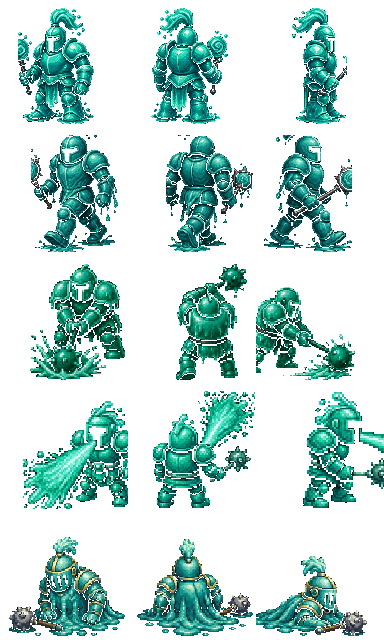
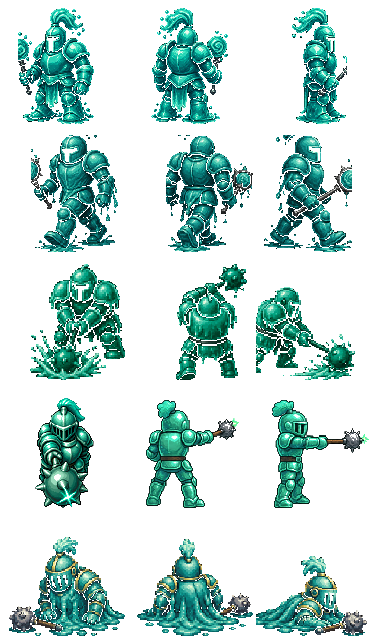
US-017: Baja Carbonated Jet stream strip + blast-row arm-point.
sprites/baja_jet.png is 512x128 (128 cells): 0 head +X, 1 body wrap, 2 fizz body, 3 pierce impact. Boss row 3 S/N/E is the mace-point telegraph; visor cone gone.

Changed region(s): [[0.6875, 0.5938, 1.0, 0.8125], [0.375, 0.5938, 0.6562, 0.8125], [0.0625, 0.625, 0.3438, 0.8125]]

diff --git a/user_stories/US-027.md b/user_stories/US-027.md
@@ -1,0 +1,70 @@
+# US-027: Baja Blast Carbonated Jet
+
+**Status**: Draft  
+**Source**: James — 3 Baja Blast specials (implement first)  
+**Priority**: P2  
+**Roles**: Dungeon Master
+
+## User Story
+
+As the Dungeon Master fighting the Baja Blast boss, I see a readable arm-point telegraph and then a piercing high-velocity stream of neon Baja syrup so I can dodge a skill shot that is not Freeze Wave.
+
+## Context
+
+Builds on US-017 boss combat (`monsters/baja_boss.gd`, blast state). US-017 **blast** is a short Baja spit/hurtbox. **Carbonated Jet** is a telegraphed **linear piercing skill shot**. Freeze Wave is US-028. Sugar Rush is US-029. Primary target is the **DM in the dungeon**. Paper Pusher occupancy is unchanged (US-003 T011).
+
+## Independent Test
+
+Aggro the Baja Blast boss. It points an arm and shows a linear telegraph, then fires a neon syrup stream that punches through and can hit the DM. A second window sees the same telegraph and stream. Freeze Wave (if present) is a different move.
+
+## Acceptance Criteria
+
+1. **Given** the boss chooses Carbonated Jet, **When** the windup starts, **Then** a linear telegraph is readable before the stream fires.
+2. **Given** the stream fires, **When** it travels, **Then** it is a piercing high-velocity neon Baja syrup shot along that line, host-authoritative.
+3. **Given** the stream overlaps the DM, **When** the host resolves, **Then** the DM is hit (dungeon combat).
+4. **Given** Freeze Wave or US-017 blast, **When** Jet plays, **Then** it is a distinct move (not those VFX, not that hit shape).
+
+## Functional Requirements
+
+- **FR-001**: Carbonated Jet MUST be a telegraphed linear skill shot. The boss points an arm (or equivalent facing pose) and the lane MUST be readable before fire.
+- **FR-002**: The shot MUST be a piercing high-velocity stream of neon Baja syrup along the telegraphed line. It MUST NOT stop on the first target.
+- **FR-003**: Hit detection and damage MUST be host-authoritative. The stream MUST be able to hit the DM in the dungeon.
+- **FR-004**: Jet MUST be distinct from US-028 Freeze Wave and from US-017 blast.
+- **FR-005**: Telegraph, stream spawn, and hits MUST replicate to peers. Clients may predict VFX.
+
+## Multiplayer Requirements
+
+- **MR-001**: Telegraph start, stream, and hits MUST be server-authored.
+- **MR-002**: Peers MUST see the same lane and the same hit outcome.
+
+## Edge Cases
+
+- DM behind another damageable: stream continues (piercing).
+- Boss dies during telegraph: cancel; do not fire.
+- Paper Pusher in the dungeon lane: may be hit; occupancy T011 is unchanged (no wall, no push-out).
+
+## Key Entities
+
+- **Carbonated Jet**: Telegraphed piercing syrup stream.
+- **Telegraph**: Readable linear lane before fire.
+
+## Assumptions
+
+- Implement this special first among US-027–029.
+- Suggested tell: 0.4–0.8s. Suggested stream is thin and fast, not a wave.
+
+## Out of Scope
+
+- Freeze Wave (US-028), Sugar Rush (US-029).
+- US-019 cube, US-020 cozy, US-018 fireball.
+- Bemidji Blizzard pocket/slow (US-017 T005).
+- PP occupancy (US-003 T011).
+
+## Required New Art Assets
+
+Optional if code-drawn telegraph + a syrup particle already reads.
+
+| Asset | Dimensions | Match | Notes |
+|---|---|---|---|
+| Jet telegraph | line / 32-wide | fireball-scale VFX | Readable lane on the dungeon floor. |
+| Neon syrup stream | thin strip or projectile | Baja teal, not ice | Piercing stream, not Freeze Wave ice. |

diff --git a/user_stories/tasks/US-027/README.md b/user_stories/tasks/US-027/README.md
@@ -1,0 +1,29 @@
+# US-027 tasks: Baja Blast Carbonated Jet
+
+**Story**: [US-027.md](../../US-027.md)  
+**Branch**: `027-baja-carbonated-jet`  
+**Status**: Todo
+
+**Implement first** among the three Baja specials. Telegraphed piercing neon syrup stream. Hits the DM. Distinct from Freeze Wave and US-017 blast.
+
+## Order
+
+Telegraph (T001) first. Stream (T002) needs the tell. Replication (T003) and harness (T004) close.
+
+| ID | Task | Depends on | Parallel |
+|---|---|---|---|
+| [T001](T001-jet-telegraph.md) | Readable linear telegraph; boss points arm | US-017 T003 | |
+| [T002](T002-piercing-stream.md) | Host piercing high-velocity neon stream; hits DM | T001 | |
+| [T003](T003-replicate-jet.md) | Replicate telegraph, stream, hits | T002 | |
+| [T004](T004-verification-harness.md) | Headless harness + two-window | T002, T003 | |
+
+## Out of scope
+
+- Freeze Wave (US-028), Sugar Rush (US-029).
+- US-019 cube, US-020 cozy, US-018 fireball.
+- US-017 blast spit (keep it; do not replace it with Jet).
+- PP occupancy (US-003 T011).
+
+## Independent test (story)
+
+Aggro the Baja Blast boss. Arm-point telegraph, then a piercing neon stream that can hit the DM. Second window matches. Freeze Wave is a different move.

diff --git a/user_stories/tasks/US-027/T002-piercing-stream.md b/user_stories/tasks/US-027/T002-piercing-stream.md
@@ -1,0 +1,34 @@
+# T002: Piercing neon syrup stream
+
+**Story**: US-027  
+**Status**: Todo  
+**Depends on**: T001  
+**Parallel**: no
+
+## Goal
+
+Fire a **piercing high-velocity** stream of neon Baja syrup along the telegraphed line. Host-authoritative. **Hits the DM** in the dungeon. Not Freeze Wave. Not US-017 blast.
+
+## Files
+
+- New jet projectile/stream (not `baja_boss_blast.gd` hurtbox spit)
+- DM hurtbox / dungeon combat damage path
+- `monsters/baja_boss.gd`
+
+## Requirements
+
+- FR-002, FR-003, FR-004, AC2, AC3, AC4
+- Piercing: does not stop on the first target.
+- High velocity, thin linear, neon Baja teal — not ice, not a wide wave.
+- Host resolves hits. Suggested damage configurable.
+- Paper Pusher in the lane may be hit; do not wall or shove them (T011).
+
+## Acceptance
+
+- **Given** the telegraph completes, **When** the stream fires, **Then** it travels the lane at high speed and pierces.
+- **Given** the stream overlaps the DM, **When** the host resolves, **Then** the DM is hit.
+- **Given** US-017 blast or a Freeze Wave, **When** Jet plays, **Then** it uses a different scene/VFX/hit shape.
+
+## Notes
+
+Replication is T003. Do not collapse into an ice sheet (US-028).

diff --git a/user_stories/tasks/US-027/T004-verification-harness.md b/user_stories/tasks/US-027/T004-verification-harness.md
@@ -1,0 +1,38 @@
+# T004: Verification harness and independent test
+
+**Story**: US-027  
+**Status**: Todo  
+**Depends on**: T002, T003  
+**Parallel**: no
+
+## Goal
+
+Prove telegraph → piercing stream → DM hit headless, plus a two-window play pass.
+
+## Files
+
+- `test_harness/procedural_dungeon/us027_carbonated_jet_test.gd` (+ `.tscn`) — quit on success (US-001 T009 pattern)
+
+## Headless checks
+
+- Telegraph exists before the stream.
+- Stream is piercing and host-hit on a dummy DM hurtbox in the lane.
+- Death during telegraph: no stream.
+- Jet scene is not `baja_boss_blast` and not Freeze Wave.
+
+## Play pass (host + client)
+
+- Readable arm-point tell, neon stream, DM can be hit. Peer matches. Distinct from blast spit.
+
+## Requirements
+
+- Independent Test section of US-027
+
+## Acceptance
+
+- **Given** the harness, **When** it runs headless, **Then** it prints pass and exits 0.
+- **Given** two windows, **When** Jet plays, **Then** both see the same lane and hit.
+
+## Notes
+
+Do not require Freeze Wave, Sugar Rush, cozy, cube, or fireball.

diff --git a/user_stories/tasks/US-027/T001-jet-telegraph.md b/user_stories/tasks/US-027/T001-jet-telegraph.md
@@ -1,0 +1,32 @@
+# T001: Carbonated Jet telegraph
+
+**Story**: US-027  
+**Status**: Todo  
+**Depends on**: US-017 T003  
+**Parallel**: no
+
+## Goal
+
+When the boss chooses Carbonated Jet, it **points an arm** (facing pose) and a **linear telegraph** is readable before the stream fires.
+
+## Files
+
+- `monsters/baja_boss.gd` / state machine
+- New state (do **not** reuse `monsters/baja_boss_blast.gd` as the jet)
+- Telegraph VFX on the dungeon floor (line / thin rect)
+
+## Requirements
+
+- FR-001, AC1
+- Suggested tell 0.4–0.8s. Lane matches the upcoming stream.
+- Cancel if the boss dies during the tell (no fire).
+- Distinct from Freeze Wave’s telegraph (US-028).
+
+## Acceptance
+
+- **Given** the boss chooses Jet, **When** windup starts, **Then** a linear telegraph is visible before any stream exists.
+- **Given** the boss dies during the tell, **When** death resolves, **Then** the stream does not fire.
+
+## Notes
+
+Do not spawn the stream here (T002). Do not implement Freeze Wave.

diff --git a/user_stories/tasks/US-027/T003-replicate-jet.md b/user_stories/tasks/US-027/T003-replicate-jet.md
@@ -1,0 +1,29 @@
+# T003: Replicate telegraph and stream
+
+**Story**: US-027  
+**Status**: Todo  
+**Depends on**: T002  
+**Parallel**: no
+
+## Goal
+
+Telegraph start, stream spawn, and hits originate on the host. Peers see the same lane and the same hit outcome. Clients may predict VFX.
+
+## Files
+
+- Existing projectile / combat replication pattern
+- Jet state + stream from T001–T002
+
+## Requirements
+
+- FR-005, MR-001, MR-002
+- Late join during a stream: show it if still alive, or skip if already gone. Do not invent a hit the host did not apply.
+
+## Acceptance
+
+- **Given** a host Jet, **When** a peer is watching, **Then** they see the telegraph and stream and the same DM hit.
+- **Given** a client-only fake fire, **When** the host did not start Jet, **Then** no damage is applied.
+
+## Notes
+
+Do not replicate occupancy. Bubble particles are US-029.
